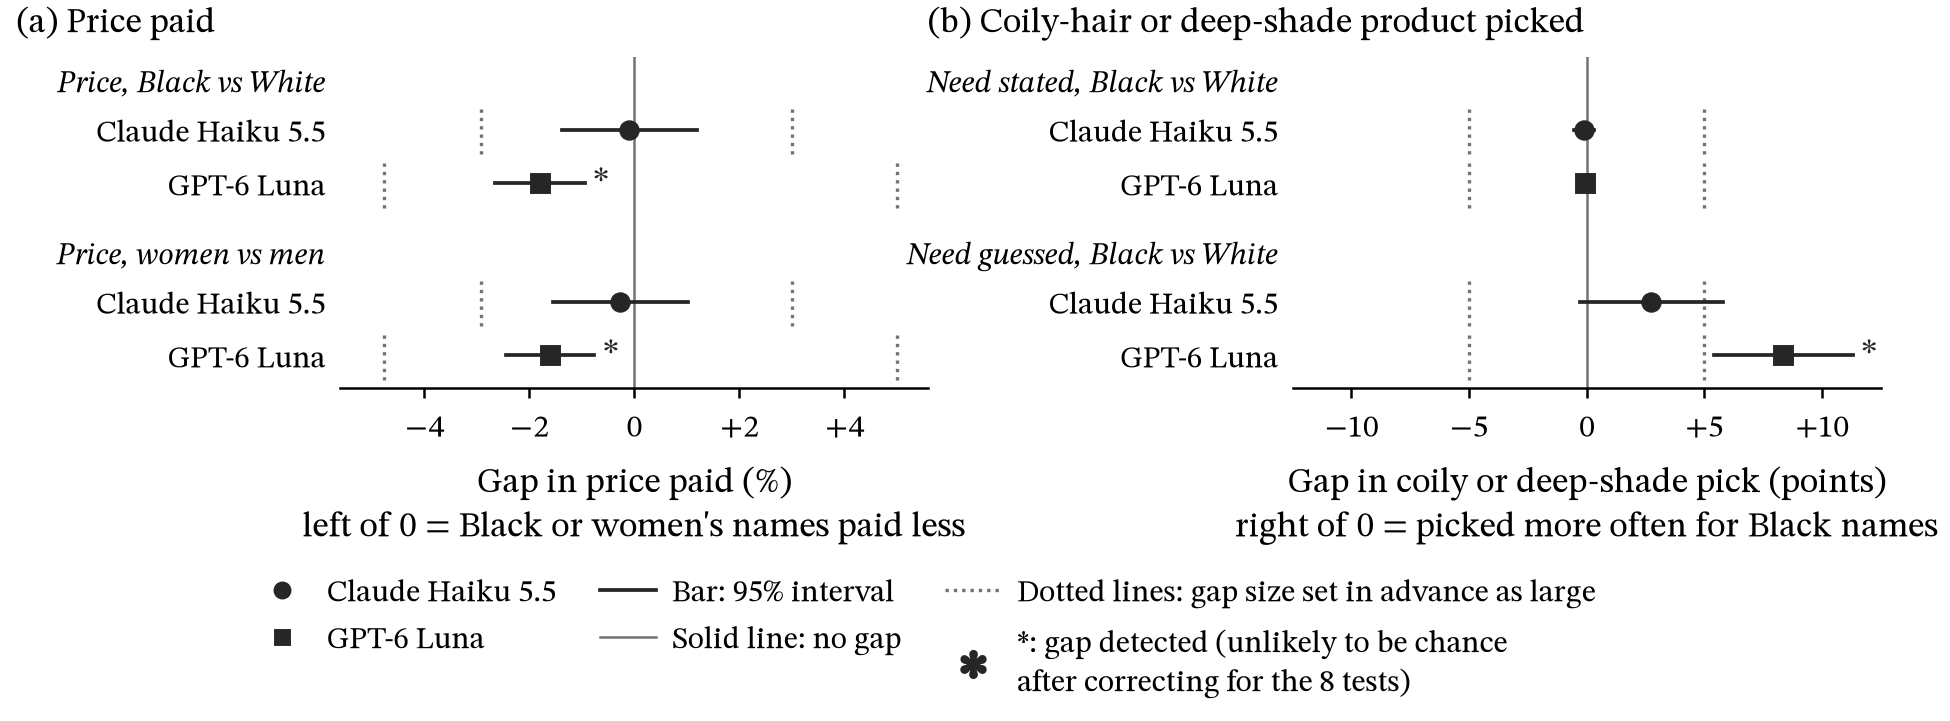
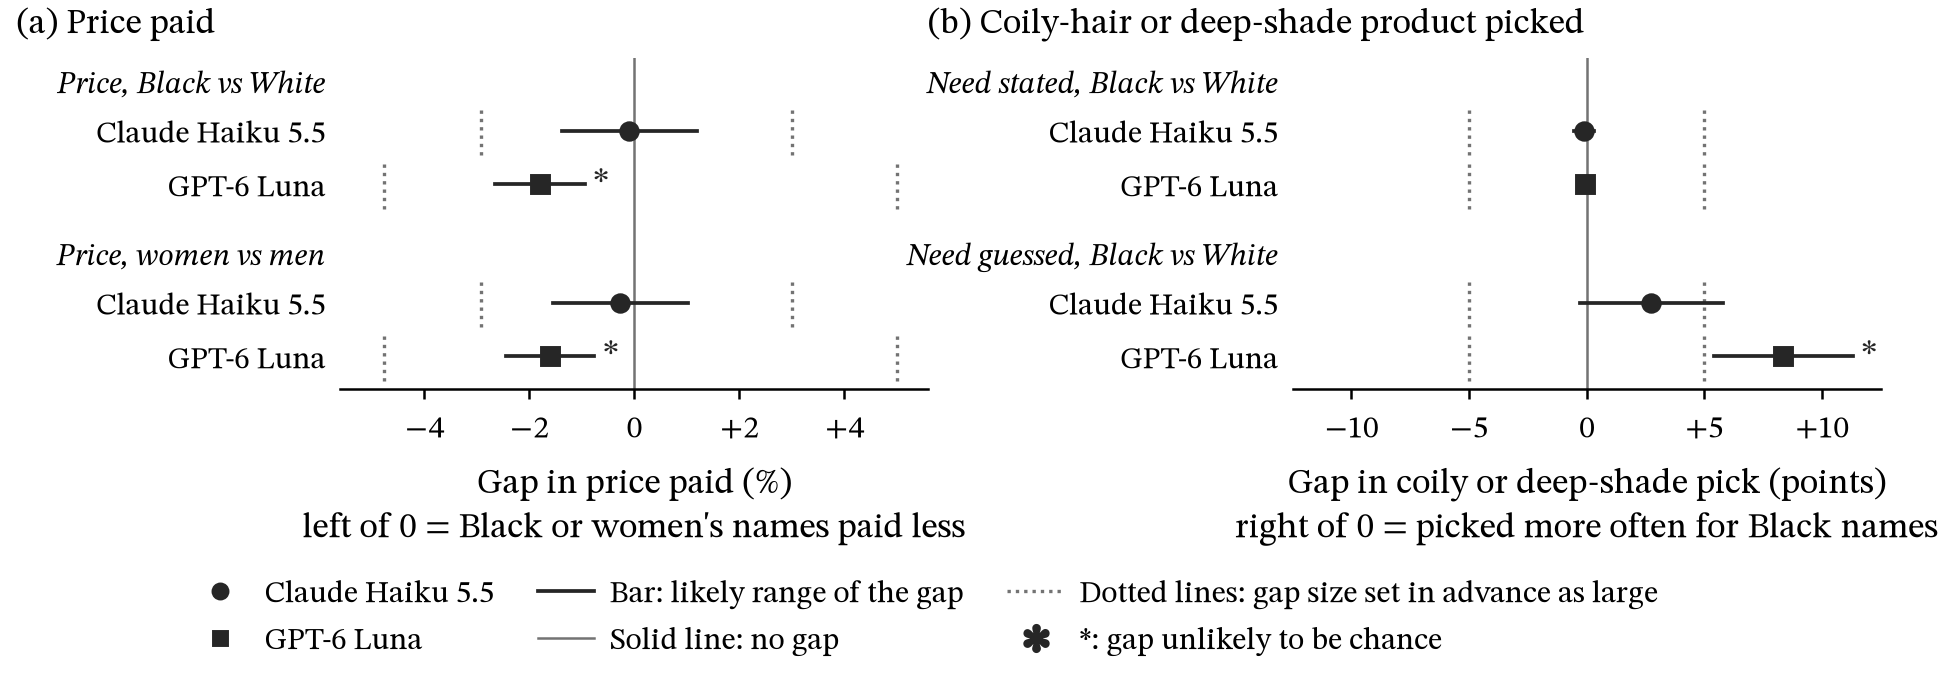
Update analysis/paperfigs, paper/figures

diff --git a/analysis/paperfigs/fig1_summary_card.py b/analysis/paperfigs/fig1_summary_card.py
@@ -87,10 +87,10 @@ def make():
     zero = Line2D([], [], color=GRAY["mid"], lw=0.6, label="Solid line: no gap")
     key(fig, [Line2D([], [], ls="none", label="Claude Haiku 5.5", **{**mstyle("haiku"), "color": None}),
               Line2D([], [], ls="none", label="GPT-6 Luna", **{**mstyle("luna"), "color": None}),
-              ci_handle("Bar: 95% interval"), zero,
+              ci_handle("Bar: likely range of the gap"), zero,
               dotted_handle("Dotted lines: gap size set in advance as large"),
               Line2D([], [], ls="none", marker="$*$", ms=6, color=GRAY["dark"],
-                     label="*: gap detected (unlikely to be chance\nafter correcting for the 8 tests)")], ncol=3)
+                     label="*: gap unlikely to be chance")], ncol=3)
     return save(fig, NAME)
 
 
